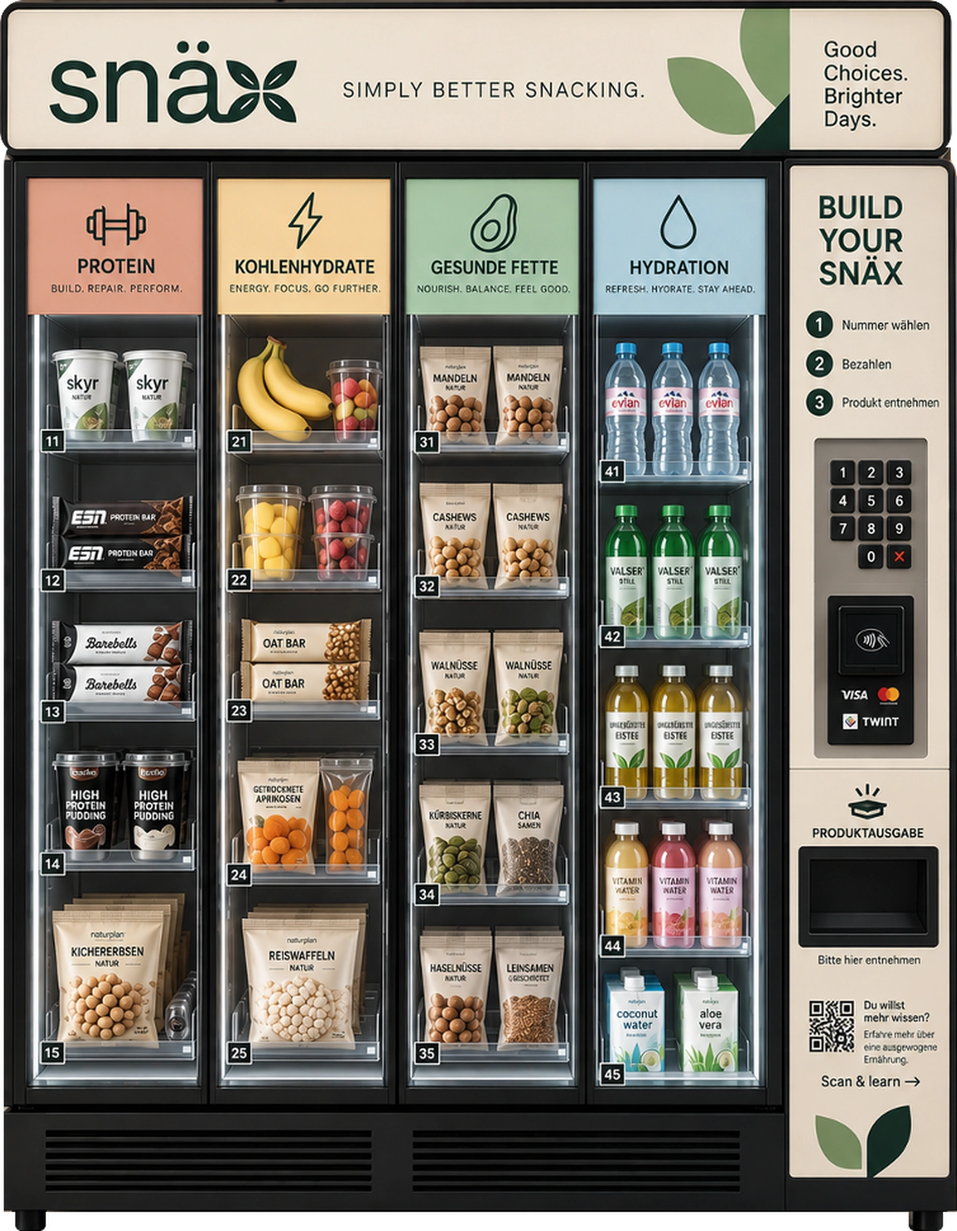
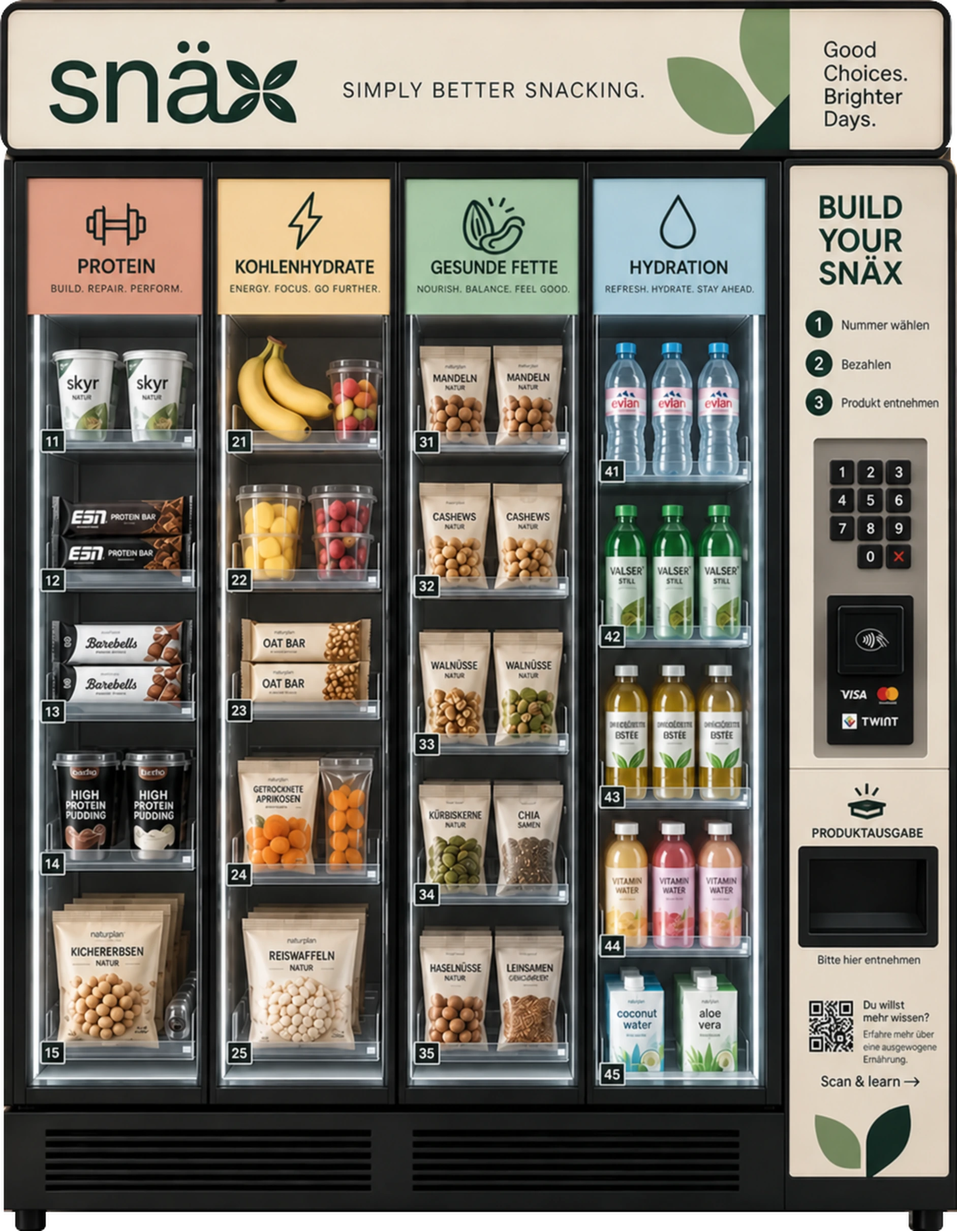
feat: Refresh catalog and category labels

diff --git a/snäx/src/data/products.ts b/snäx/src/data/products.ts
@@ -3,7 +3,7 @@ import type { ImageMetadata } from 'astro';
 import alpahirtBergsalsiz from '../assets/products/alpahirt-bergsalsiz.webp';
 import darvidaNature from '../assets/products/darvida-nature.webp';
 import kaegiChiefsProteinWafer from '../assets/products/kaegi-chiefs-protein-wafer.webp';
-import rivellaRot from '../assets/products/rivella-rot.webp';
+import vitaminWellZeroPineapple from '../assets/products/vitamin-well-zero-pineapple.webp';
 
 export const productCategories = ['protein', 'getraenk', 'low-carb', 'snack'] as const;
 export type ProductCategory = (typeof productCategories)[number];
@@ -11,7 +11,7 @@ export type ProductStatus = 'candidate' | 'approved' | 'published';
 
 export const productCategoryLabels: Record<ProductCategory, string> = {
   protein: 'Protein',
-  getraenk: 'Getränk',
+  getraenk: 'Beverage',
   'low-carb': 'Low Carb',
   snack: 'Snack',
 };
@@ -78,36 +78,40 @@ export const products: Product[] = [
     imageUsage: 'approved',
   },
   {
-    slug: 'rivella-rot',
-    name: 'Rivella Rot',
+    slug: 'vitamin-well-zero-pineapple',
+    name: 'Vitamin Well Zero Pineapple',
     category: 'getraenk',
     status: 'published',
-    brandCountry: 'CH',
-    producerCountry: 'CH',
-    productionCountry: 'CH',
-    ingredientsSummary: 'Kohlensäurehaltiges Tafelgetränk mit 35 % Milchserum.',
-    factSourceUrl: 'https://www.migros.ch/de/product/120223000000',
-    originSourceUrl: 'https://rivella-group.com/unternehmen/',
+    brandCountry: 'SE',
+    producerCountry: 'SE',
+    productionCountry: 'SE',
+    ingredientsSummary:
+      'Zuckerfreies, stilles Erfrischungsgetränk mit Ananas- und Grapefruitgeschmack, Vitaminen, Mineralstoffen und Süssungsmitteln.',
+    factSourceUrl:
+      'https://www.coop.ch/de/lebensmittel/getraenke/soft-drinks/sport-energydrinks/sportgetraenke/vitamin-well-pineapple-zero/p/7268439',
+    originSourceUrl: 'https://www.vitaminwell.com/about/',
     nutritionClaims: [
       {
-        label: 'Mit 35 % Milchserum',
-        sourceUrl: 'https://www.migros.ch/de/product/120223000000',
+        label: '0 g Zucker pro 100 ml',
+        sourceUrl: 'https://www.vitaminwell.com/product/zero-pineapple/',
       },
     ],
     swissMarketSignals: [
       {
-        label: 'Schweizer Original seit 1952',
-        sourceUrl: 'https://rivella.ch/de/sortiment/rot/',
+        label: 'Schweizer Produktinformationen bei Vitamin Well',
+        sourceUrl: 'https://www.vitaminwell.com/product/zero-pineapple/',
       },
       {
-        label: 'Migros-Sortiment mit Kundenbewertungen',
-        sourceUrl: 'https://www.migros.ch/de/product/120223000000',
+        label: 'Coop-Sortiment mit Kundenbewertungen',
+        sourceUrl:
+          'https://www.coop.ch/de/lebensmittel/getraenke/soft-drinks/sport-energydrinks/sportgetraenke/vitamin-well-pineapple-zero/p/7268439',
       },
     ],
-    image: rivellaRot,
-    imageAlt: 'Flasche Rivella Rot Original',
-    imageSourceUrl: 'https://rivella.ch/wp-content/uploads/2025/02/rivella-rot-1.png',
-    imageOwner: 'Rivella AG',
+    image: vitaminWellZeroPineapple,
+    imageAlt: 'Flasche Vitamin Well Zero Pineapple',
+    imageSourceUrl:
+      'https://media.meds.se/meds/images/image-png-2024-04-23-080955859/0/0/auto/c/7340222800044-png.png',
+    imageOwner: 'Vitamin Well AB',
     imageUsage: 'approved',
   },
   {

diff --git a/snäx/src/data/site.ts b/snäx/src/data/site.ts
@@ -106,14 +106,14 @@ export const siteContent: SiteContent = {
       },
       {
         slug: 'kohlenhydrate',
-        name: 'Kohlenhydrate',
+        name: 'Carbohydrates',
         benefit: 'Energie. Fokus. Weiterkommen.',
         description:
           'Liefern schnell verfügbare Energie für den Alltag und deine Aktivität.',
       },
       {
         slug: 'gesunde-fette',
-        name: 'Gesunde Fette',
+        name: 'Healthy Fats',
         benefit: 'Nähren. Ausgleichen. Wohlfühlen.',
         description:
           'Liefern wertvolle Fettsäuren und unterstützen wichtige Körperfunktionen.',

diff --git a/snäx/tests/advisor.spec.ts b/snäx/tests/advisor.spec.ts
@@ -34,7 +34,7 @@ test('keeps each step in the viewport and shows scored products with images', as
   const cards = page.locator('[data-result-product]:visible');
   await expect(cards).toHaveCount(4);
   await expect(cards.locator('img')).toHaveCount(4);
-  await expect(cards.locator('.recommendation-category')).toHaveText(['Getränk', 'Snack', 'Protein', 'Low Carb']);
+  await expect(cards.locator('.recommendation-category')).toHaveText(['Beverage', 'Snack', 'Protein', 'Low Carb']);
   await expect(cards.locator('.fit-score')).toHaveCount(4);
 });
 

diff --git a/snäx/src/data/advisor.ts b/snäx/src/data/advisor.ts
@@ -42,12 +42,12 @@ const candidates: Candidate[] = [
     taste: 'sweet',
   },
   {
-    slug: 'rivella-rot',
+    slug: 'vitamin-well-zero-pineapple',
     category: 'getraenk',
     diets: ['omnivore', 'vegetarian'],
-    exclusions: ['milk'],
+    exclusions: [],
     taste: 'sweet',
-    drink: 'sparkling',
+    drink: 'still',
   },
   {
     slug: 'alpahirt-bergsalsiz',

diff --git a/snäx/src/data/advisor.test.ts b/snäx/src/data/advisor.test.ts
@@ -20,7 +20,7 @@ describe('snack advisor', () => {
       'darvida-nature',
       'alpahirt-bergsalsiz',
       'kaegi-chiefs-protein-wafer',
-      'rivella-rot',
+      'vitamin-well-zero-pineapple',
     ]);
     expect(result.recommendations.map(({ score }) => score).toSorted((a, b) => b - a)).toEqual(
       result.recommendations.map(({ score }) => score),
